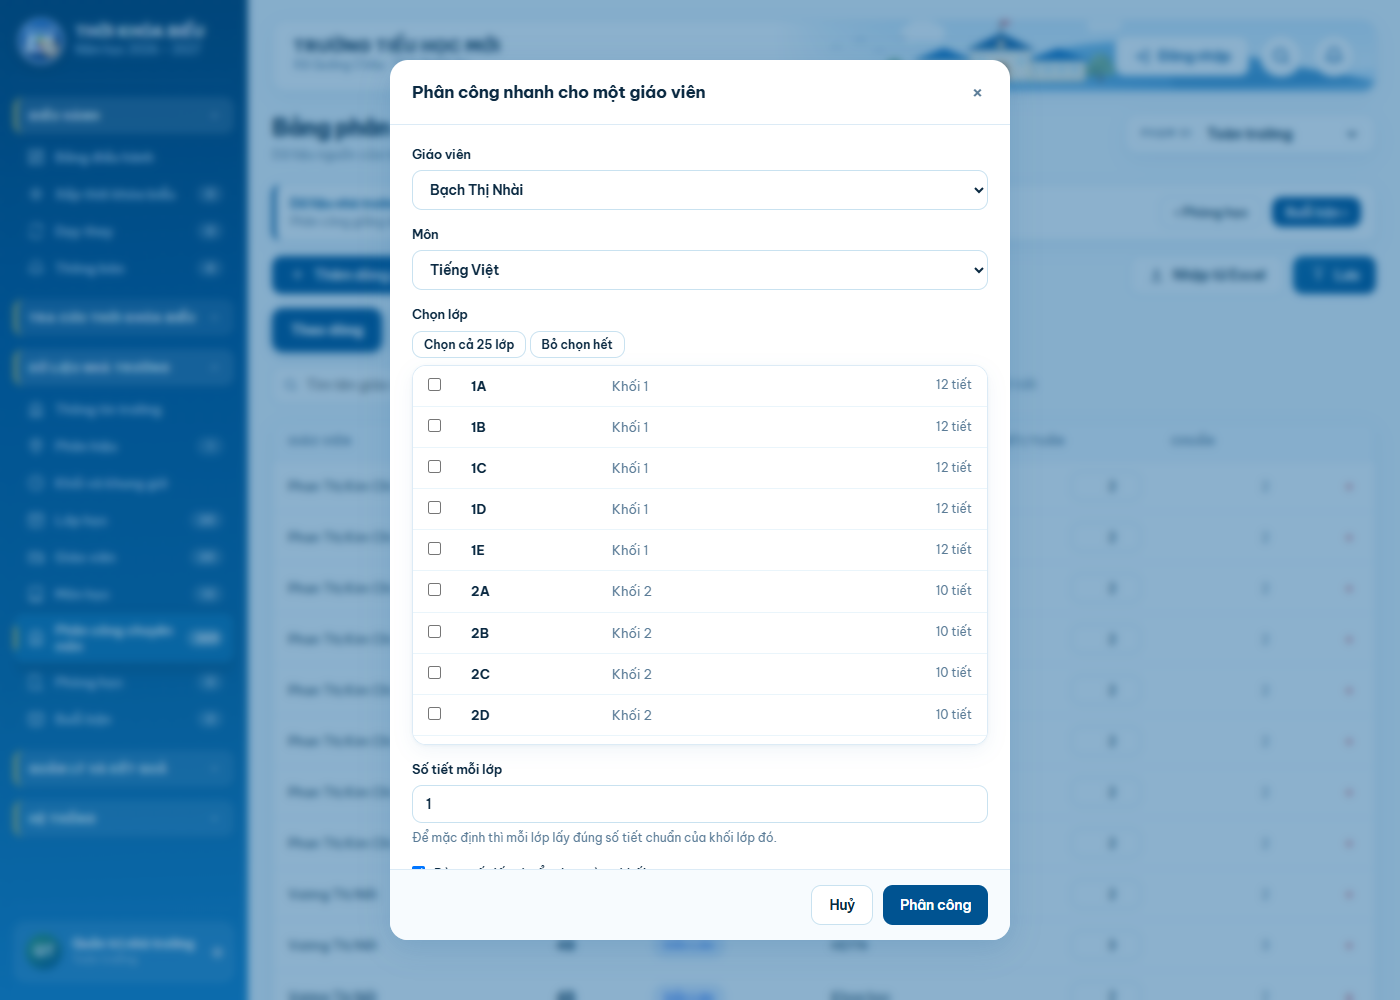
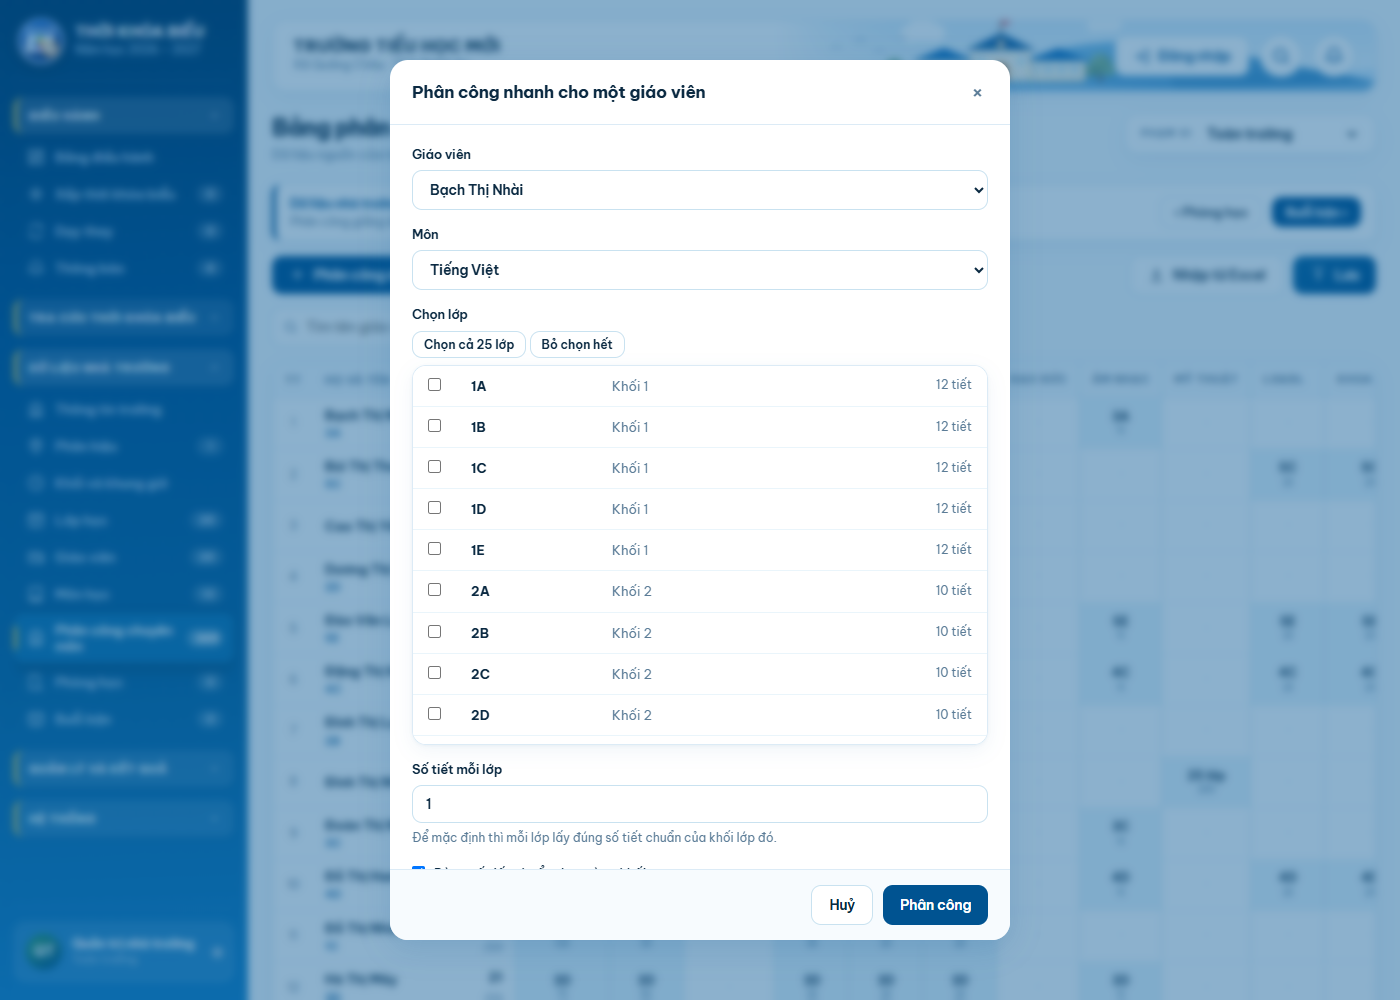
Ma tran la bang phan cong DUY NHAT; bo han bang tung dong
Chu du an chot: ma tran lam mac dinh, bo phan cong theo dong, thanh cong
cu chi de mot nut, thay nut do bang mau khac, va cac o cot mon can co
duong ke de chon truc tiep.

- Bo HAN bangPC() va hai the chuyen — giu lai la hai noi lam cung mot
  viec. Ma tran + hop Phan cong nhanh phu het: them dong = bam o trong,
  xoa dong = bo tich lop, sua so tiet = o "So tiet moi lop" trong hop.
- Thanh cong cu chi con "Phan cong nhanh cho mot giao vien".
- Nut "Luu ngay" thoi mau DO → cam. Trong ca app do nghia la nguy hiem
  hoac hong, ma Luu la viec TOT dang can lam gap: dung do la sai mau ngu
  nghia.
- Moi o mon co duong ke doc (.mt-o border-left). Bang chi ke ngang thi
  15 cot trong nhu mot mang trang, khong ai doan duoc o nao bam duoc.

⚠ Bo bang cu keo theo mat o chon #fGV — loi "bam cot Day o bang Giao
vien" phai chuyen sang loc bang chinh o tim kiem. Phep thu bat duoc
ngay; khong co no thi bam cot Day sang mot bang 35 hang khong loc gi ca.

⚠ Diem hut duy nhat, noi truoc de dung ai di tim: khong con cach xem
"lop 1A co nhung ai day mon gi". Cau ay tra loi gian tiep qua cot lech
tiet o bang Lop hoc va quy tac R04.

npm run soi 475/475 · test 454/454 · soi-nhap 60/60

Claude-Session: https://claude.ai/code/session_01Feof1wM7UgUKRgtGQBPP1z

diff --git a/src/index.html b/src/index.html
@@ -491,7 +491,12 @@ h1{font-size:23px;font-weight:800;letter-spacing:-.03em;line-height:1.2}
    chỗ gọi mà chẳng được thêm gì. */
 .b-vang{background:linear-gradient(135deg,#0A659F,#005391);color:#fff}
 /* Nút Lưu khi còn thay đổi treo — phải nổi hơn hẳn màu vàng thường */
-.b-do{background:linear-gradient(135deg,#B33224,#D0503F);color:#fff}
+/* Nút "Lưu ngay" khi còn thay đổi treo. Trước đây tô ĐỎ — sai màu ngữ nghĩa:
+   trong cả app đỏ nghĩa là nguy hiểm hoặc hỏng (nút Xoá, cảnh báo mức `do`),
+   mà Lưu là việc TỐT đang cần làm gấp. Chủ dự án 29/8/2026: "thay nút đỏ bằng
+   màu xanh lam hoặc da cam". Cam giữ được sự khẩn trương mà không doạ người
+   dùng — cùng màu với dải cảnh báo mức `canh`. */
+.b-do{background:linear-gradient(135deg,#C2691F,#E08A34);color:#fff}
 .chua-luu{font-size:12.5px;font-weight:700;color:var(--do);white-space:nowrap;
   background:var(--do-nen);padding:6px 11px;border-radius:20px}
 .b-nho{padding:7px 12px;font-size:12.5px}
@@ -1042,7 +1047,11 @@ tr.pa-tot td{background:var(--xanh-nen)}
 .mt-ten{left:34px;min-width:150px;box-shadow:1px 0 0 var(--ke)}
 .mt-cn{font-size:11px;color:var(--nav);font-weight:600}
 .mt-mon{min-width:74px;font-size:10px;line-height:1.25}
-.mt-o{min-width:74px;font-size:12px;line-height:1.3}
+/* ⚠ Ô môn phải có VIỀN thật. Chủ dự án 29/8/2026: "các ô cột môn cần có
+   đường kẻ, hoặc phân ô cho rõ ràng để chọn trực tiếp" — bảng chỉ kẻ ngang thì
+   15 cột trông như một mảng trắng, không ai đoán được ô nào bấm được. */
+.mt-o{min-width:74px;font-size:12px;line-height:1.3;border-left:1px solid var(--ke-2)}
+.mt-bang th.mt-mon{border-left:1px solid var(--ke-2)}
 .mt-o.co{background:var(--nav-nhat)}
 .mt-o[data-mt]{cursor:pointer}
 .mt-o[data-mt]:hover{background:var(--nav-vien)}
@@ -1667,7 +1676,6 @@ let S = {
   dtLoc:'moi',          /* bộ lọc lịch đã phân công: hôm nay · mai · tuần · ngày · tất cả */
   dtLocNgay:'',         /* ngày cụ thể khi dtLoc === 'ngay' */
   coLuoi:'tc',          /* cỡ hiển thị lưới: gon · tc (tiêu chuẩn) · rong */
-  pcXem:'dong',         /* Bảng phân công: 'dong' từng dòng · 'matran' giáo viên × môn */
   dhXem:'',             /* Bảng điều hành đang bày cách xem nào. Để RỖNG để lần
                            đầu vẽ thì `xemMacDinh()` tự chọn theo quy mô trường:
                            nhiều lớp thì mở thẳng một lớp, ít lớp thì toàn trường */
@@ -11594,7 +11602,7 @@ function mGiaoVien(){
    câu hỏi thật của người xếp là "ai dạy môn gì" và "còn ô nào trống".
 
    Hai cách xem CÙNG một dữ liệu, đổi bằng thẻ chuyển tại chỗ; không tách màn
-   hình mới. `S.pcXem` nhớ lựa chọn. */
+   hình mới — bảng từng dòng đã bỏ hẳn ngày 29/8/2026. */
 function oMaTran(g, mon){
   const ds=S.phanCong.filter(p=>p.gvId===g.id && p.mon===mon);
   if(!ds.length) return '';
@@ -11649,16 +11657,11 @@ function mPhanCong(){
   const ds=lopTrongPV();
   return dauTrang('Bảng phân công giảng dạy','Dữ liệu nguồn của toàn bộ việc xếp thời khóa biểu.',true)+
   dieuHuongBuoc('phancong')+
-  (duocSuaNguon()?thanhKhaiBao(`<button class="b b-ch" id="btThemPC">
-      <svg viewBox="0 0 24 24" fill="none" stroke="currentColor"><path d="M12 5v14M5 12h14"/></svg>Thêm dòng phân công</button>
-    <button class="b b-vien" id="btPCTheoGV">Phân công nhanh cho một giáo viên</button>`)
+  /* Chỉ còn MỘT nút. "Thêm dòng phân công" là lối vào của bảng từng dòng đã
+     bỏ; giữ lại thì lại có hai cách làm cùng một việc. */
+  (duocSuaNguon()?thanhKhaiBao(`<button class="b b-ch" id="btPCTheoGV">
+      <svg viewBox="0 0 24 24" fill="none" stroke="currentColor"><path d="M12 5v14M5 12h14"/></svg>Phân công nhanh cho một giáo viên</button>`)
    :nhanChiXem('sửa bảng phân công')+'<div style="margin-bottom:14px"></div>')+`
-  <div class="dai-xem" style="margin-bottom:13px;justify-content:flex-start">
-    <button class="xem-nut ${S.pcXem==='matran'?'':'on'}" style="flex:0 0 auto"
-      data-pcxem="dong">Theo dòng</button>
-    <button class="xem-nut ${S.pcXem==='matran'?'on':''}" style="flex:0 0 auto"
-      data-pcxem="matran">Ma trận giáo viên × môn</button>
-  </div>
   <div class="tkb-thanh">
     <div class="loc-o" style="flex:1 1 220px;max-width:320px">
       <svg viewBox="0 0 24 24"><circle cx="11" cy="11" r="7"/><path d="M16.5 16.5L21 21"/></svg>
@@ -11666,54 +11669,13 @@ function mPhanCong(){
         autocomplete="off" spellcheck="false">
       <button class="loc-x" type="button" id="fTimXoa" title="Xoá ô tìm kiếm">&times;</button>
     </div>
-    ${S.pcXem==='matran'?'':`
-    <select class="ip" id="fGV"><option value="">Tất cả giáo viên</option>
-      ${[...gvTrongPV()].sort((a,b)=>a.hoTen.localeCompare(b.hoTen,'vi')).map(g=>`<option value="${g.id}">${esc(g.hoTen)}</option>`).join('')}</select>
-    <select class="ip" id="fLop"><option value="">Tất cả lớp</option>
-      ${ds.map(l=>`<option value="${l.id}">Lớp ${esc(tenLopDay(l.id))}</option>`).join('')}</select>`}
-    <span id="tomTat" style="font-size:12.5px;color:var(--chu-mo)">${
-      S.pcXem==='matran'?`${gvTrongPV().size||[...gvTrongPV()].length} giáo viên · ${dsMonDung().length} môn`:''}</span>
+    <span id="tomTat" style="font-size:12.5px;color:var(--chu-mo)"
+      >${[...gvTrongPV()].length} giáo viên · ${dsMonDung().length} môn</span>
   </div>
-  ${S.pcXem==='matran' ? bangMaTran() : `
-  <div class="bang" style="max-height:60vh"><table class="dl" id="bPC"></table></div>
-  <div class="loc-rong" data-locrong="bPC"></div>`}
-  ${S.pcXem==='matran'?`<div class="gy" style="margin-top:11px">Bấm vào một ô để chọn lớp cho
-    cặp giáo viên – môn ấy. Ô ghi <b>số lớp</b> và <b>tổng tiết</b>; hàng cuối đếm mỗi môn đã
-    có người dạy ở mấy lớp trên tổng ${ds.length} lớp.</div>`:''}`;
-}
-/* Bảng phân công vẽ lại theo bộ lọc chứ không ẩn dòng như các bảng khác:
-   600 dòng thì dựng lại DOM rẻ hơn giữ hết trong trang rồi ẩn đi. Ô tìm kiếm
-   `#fTim` nằm NGOÀI `#bPC` nên vẽ lại không cướp con trỏ đang gõ. */
-function bangPC(){
-  const fg=$('#fGV')?.value||'', fl=$('#fLop')?.value||'', ft=$('#fTim')?.value||'';
-  const trongPV=lopTrongPV();
-  const sua=duocSuaNguon();
-  const ds=S.phanCong.map((p,i)=>({p,i}))
-    .filter(({p})=>trongPV.some(l=>l.id===p.lopId)&&(!fg||p.gvId===fg)&&(!fl||p.lopId===fl)
-      && khopLoc([gvId(p.gvId)?.hoTen, lopId(p.lopId)?.ten, lopId(p.lopId)?.maLop,
-                  dtId(S.lopDT[p.lopId])?.ten, p.mon].filter(Boolean).join(' '), ft));
-  if($('#tomTat')) $('#tomTat').textContent=`${ds.length} dòng · ${ds.reduce((s,x)=>s+x.p.soTiet,0)} tiết`;
-  $('#fTimXoa')?.parentElement.classList.toggle('co-chu', ft.length>0);
-  const rong=$('[data-locrong="bPC"]');
-  if(rong){
-    rong.classList.toggle('hien', !ds.length && S.phanCong.length>0);
-    rong.textContent='Không có dòng phân công nào khớp bộ lọc đang đặt.';
-  }
-  $('#bPC').innerHTML=`<thead><tr><th>Giáo viên</th><th>Lớp</th><th>Phân hiệu</th><th>Môn</th>
-    <th class="phai">Tiết/tuần</th><th class="phai">Chuẩn</th>${sua?'<th></th>':''}</tr></thead><tbody>
-  ${ds.map(({p,i})=>{
-    const ch=chuanMon(p.mon, lopId(p.lopId)?.khoi);
-    return `<tr><td>${esc(gvId(p.gvId)?.hoTen||'—')}</td><td><b>${esc(lopId(p.lopId)?.ten||'—')}</b></td>
-    <td><span class="tag dt d${iDT(S.lopDT[p.lopId])}">${esc(tenDT(S.lopDT[p.lopId]))}</span></td>
-    <td>${esc(p.mon)}</td>
-    <td class="phai">${sua
-      ?`<input class="ip" type="number" min="0" max="20" value="${p.soTiet}" data-pc="${i}" style="width:70px;text-align:right">`
-      :`<b>${p.soTiet}</b>`}</td>
-    <td class="phai" style="${ch&&ch!==p.soTiet?'color:var(--canh);font-weight:700':'color:var(--chu-mo)'}"
-      title="${ch?'Số tiết chuẩn theo danh mục môn học':'Chưa khai số tiết chuẩn cho môn này'}">${ch||'—'}</td>
-    ${sua?`<td class="phai"><button class="x-hang" data-xoapc="${i}" title="Xoá dòng">&times;</button></td>`:''}
-    </tr>`;}).join('')}
-  </tbody>`;
+  ${bangMaTran()}
+  <div class="gy" style="margin-top:11px">Bấm vào một ô để chọn lớp cho cặp giáo viên – môn ấy.
+    Ô ghi <b>số lớp</b> và <b>tổng tiết</b>; hàng cuối đếm mỗi môn đã có người dạy ở mấy lớp
+    trên tổng ${ds.length} lớp.</div>`;
 }
 function mKhungGio(){
   const sua=duocSuaNguon(), suc=KT.slotKhoi;
@@ -12205,28 +12167,14 @@ function noiSuKien(){
     o.dataset.loc='bMT'; o.dataset.donvi='giáo viên';
     o.oninput=()=>locBang(o);
     $('#fTimXoa').onclick=()=>{ o.value=''; locBang(o); o.focus(); };
-  }
-  if($('#bPC')){
     /* Sang đây từ cột "Dạy" của bảng Giáo viên thì lọc sẵn đúng người ấy.
+       Bảng từng dòng cũ có ô chọn riêng; ma trận lọc bằng chính ô tìm kiếm.
        Dùng MỘT LẦN rồi xoá: để lại thì lần sau mở màn Phân công vẫn bị lọc,
        mà người dùng không nhớ vì sao. */
-    if(S.pcGV){ const o=$('#fGV'); if(o) o.value=S.pcGV; S.pcGV=null; }
-    bangPC();
-    $('#fGV').onchange=bangPC; $('#fLop').onchange=bangPC;
-    $('#fTim').oninput=bangPC;
-    $('#fTimXoa').onclick=()=>{ $('#fTim').value=''; bangPC(); $('#fTim').focus(); };
-    $('#bPC').onchange=e=>{ if(e.target.dataset.pc){
-      S.phanCong[+e.target.dataset.pc].soTiet=Math.max(0,+e.target.value||0); ve(); }};
-    /* Nút xoá dòng bắt ở mức bảng: bangPC() vẽ lại nhiều lần, nối từng nút thì sót */
-    $('#bPC').onclick=e=>{
-      const n=e.target.closest('[data-xoapc]'); if(!n) return;
-      const i=+n.dataset.xoapc, p=S.phanCong[i]; if(!p) return;
-      S.phanCong.splice(i,1);
-      /* Bỏ luôn các tiết đã xếp của dòng vừa xoá, không để lưới còn tiết mồ côi */
-      const o=S.tkb[p.lopId]||{};
-      Object.keys(o).forEach(k=>{ if(o[k].gvId===p.gvId && o[k].mon===p.mon) delete o[k]; });
-      bao(`Đã xoá dòng ${p.mon} lớp ${lopId(p.lopId)?.ten||''}`); ve();
-    };
+    if(S.pcGV){
+      const g=gvId(S.pcGV); S.pcGV=null;
+      if(g){ o.value=g.hoTen; locBang(o); }
+    }
   }
   /* buổi bận — data-ban = "<mã giáo viên>|<thứ>-<buổi>" */
   $$('[data-ban]').forEach(x=>x.onchange=e=>{
@@ -12393,11 +12341,7 @@ function noiSuKien(){
   $$('[data-xoagv]').forEach(x=>x.onclick=()=>hopXoaGV(x.dataset.xoagv));
 
   /* Phân công */
-  $('#btThemPC')&&($('#btThemPC').onclick=()=>hopThemPC());
   $('#btPCTheoGV')&&($('#btPCTheoGV').onclick=hopPCTheoGV);
-  /* Đổi cách xem là vẽ lại TẠI CHỖ, không rời màn hình — cùng luật đã đặt cho
-     bốn thẻ chuyển ở Bảng điều hành ngày 3/8. */
-  $$('[data-pcxem]').forEach(b=>b.onclick=()=>{ S.pcXem=b.dataset.pcxem; ve(); });
   $$('[data-mt]').forEach(o=>o.onclick=()=>{
     const [g,m]=o.dataset.mt.split('|');
     hopPCTheoGV(g,m);

diff --git a/CLAUDE.md b/CLAUDE.md
@@ -712,9 +712,26 @@ môn**. Bảng từng dòng của app đúng về dữ liệu nhưng sai về **
 việc** — cô Mỹ thuật dạy 25 lớp thành 25 dòng giống hệt nhau, trong khi câu hỏi
 thật của người xếp là *"ai dạy môn gì"* và *"còn ô nào trống"*.
 
-Hai cách xem **cùng một dữ liệu**, đổi bằng thẻ chuyển tại chỗ; `S.pcXem` nhớ
-lựa chọn. Không tách màn hình mới — hai nơi cùng sửa một thứ thì sớm muộn lệch
-hành vi.
+**Ma trận là bảng DUY NHẤT** — bảng từng dòng và hai thẻ chuyển đã **bỏ hẳn**
+cùng ngày, chủ dự án chốt: *"bỏ phân công theo dòng"*. Giữ cả hai thì thành hai
+nơi làm cùng một việc, mà ma trận cộng hộp *Phân công nhanh* phủ hết:
+
+| Việc của bảng cũ | Nay làm ở đâu |
+|---|---|
+| thêm một dòng | bấm ô trống → hộp, tích lớp |
+| xoá một dòng | bấm ô → **bỏ tích** lớp ấy |
+| sửa số tiết | ô *Số tiết mỗi lớp* trong hộp; mặc định lấy chuẩn theo từng khối |
+| lọc theo người | ô tìm kiếm, lọc tại chỗ |
+
+⚠ **Điểm hụt duy nhất, nói trước để đừng ai đi tìm:** không còn cách xem *"lớp
+1A có những ai dạy môn gì"*. Câu ấy hiện trả lời gián tiếp qua cột lệch tiết ở
+bảng *Lớp học* và quy tắc R04. Cần xem trực tiếp thì làm sau, đừng dựng lại
+bảng cũ.
+
+⚠ Bỏ bảng cũ kéo theo mất ô chọn `#fGV` — lối *"bấm cột Dạy ở bảng Giáo viên
+để xem người ấy dạy gì"* phải chuyển sang **lọc bằng chính ô tìm kiếm** (điền
+họ tên rồi `locBang`). Phép thử bắt được ngay; không có nó thì bấm cột Dạy sang
+một bảng 35 hàng không lọc gì cả.
 
 | Hàm | Việc |
 |---|---|
@@ -733,9 +750,13 @@ Năm điều bắt buộc, cả năm đều có phép thử (`npm run soi` mục
   mình đã phân công những đâu. Một hộp dùng chung, không viết bản thứ hai.
 - **Hàng cuối đếm độ phủ từng môn** (`41/42` lớp): chỗ duy nhất nhìn ra môn nào
   còn lớp chưa có người dạy.
-- ⚠ **Hai ô lọc giáo viên/lớp GIẤU ĐI ở chế độ ma trận** — chúng chỉ có nghĩa
-  với bảng từng dòng. Bày một ô không làm gì thì người dùng gõ vào rồi tưởng
-  phần mềm hỏng.
+- ⚠ **Mỗi ô môn có đường kẻ dọc** (`.mt-o{border-left}`). Bảng chỉ kẻ ngang
+  thì 15 cột trông như một mảng trắng, không ai đoán được ô nào bấm được.
+- **Thanh công cụ chỉ còn MỘT nút** — *Phân công nhanh cho một giáo viên*.
+- ⚠ **Nút "Lưu ngay" thôi màu ĐỎ** *(29/8/2026)*. Trong cả app đỏ nghĩa là
+  nguy hiểm hoặc hỏng (nút Xoá, cảnh báo mức `do`), mà Lưu là việc **tốt** đang
+  cần làm gấp — dùng đỏ ở đây là sai màu ngữ nghĩa. Nay là **cam**, giữ được sự
+  khẩn trương mà không doạ người dùng.
 
 ⚠ `locBang()` nhận **chính ô nhập** và đọc `data-loc` của nó, không nhận id
 bảng. Gọi `locBang('bMT')` là lỗi `Cannot read properties of undefined`.
